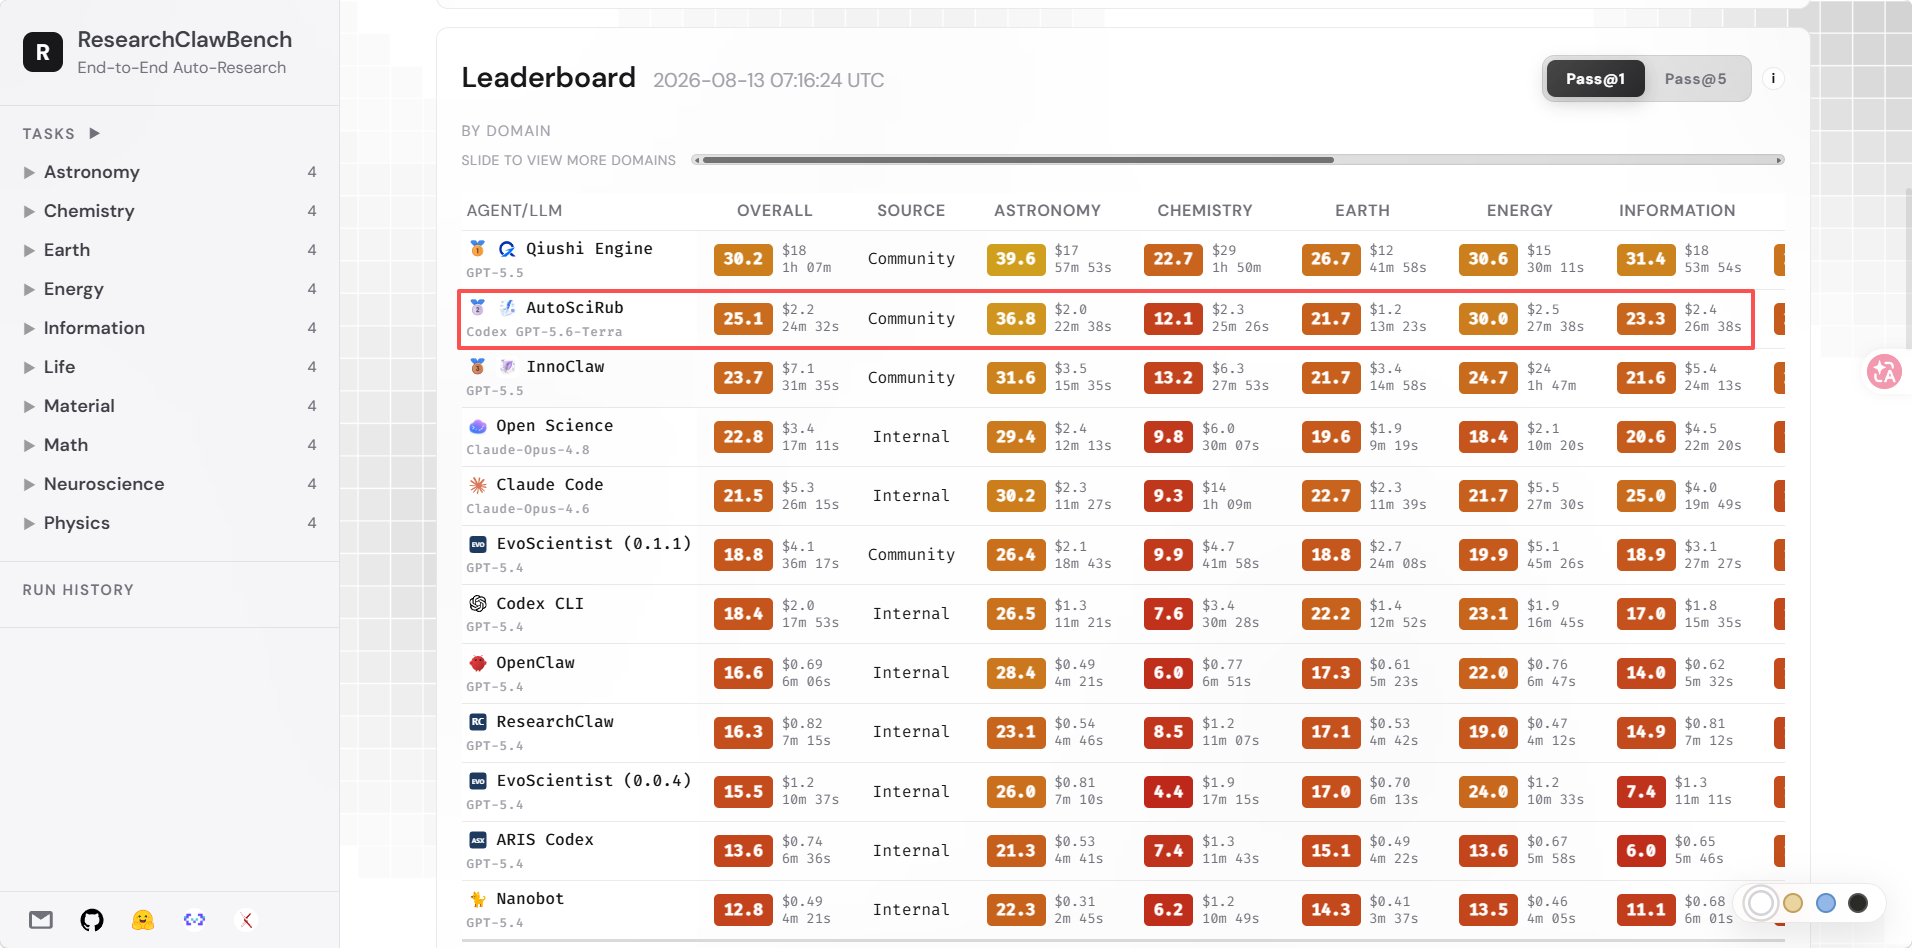
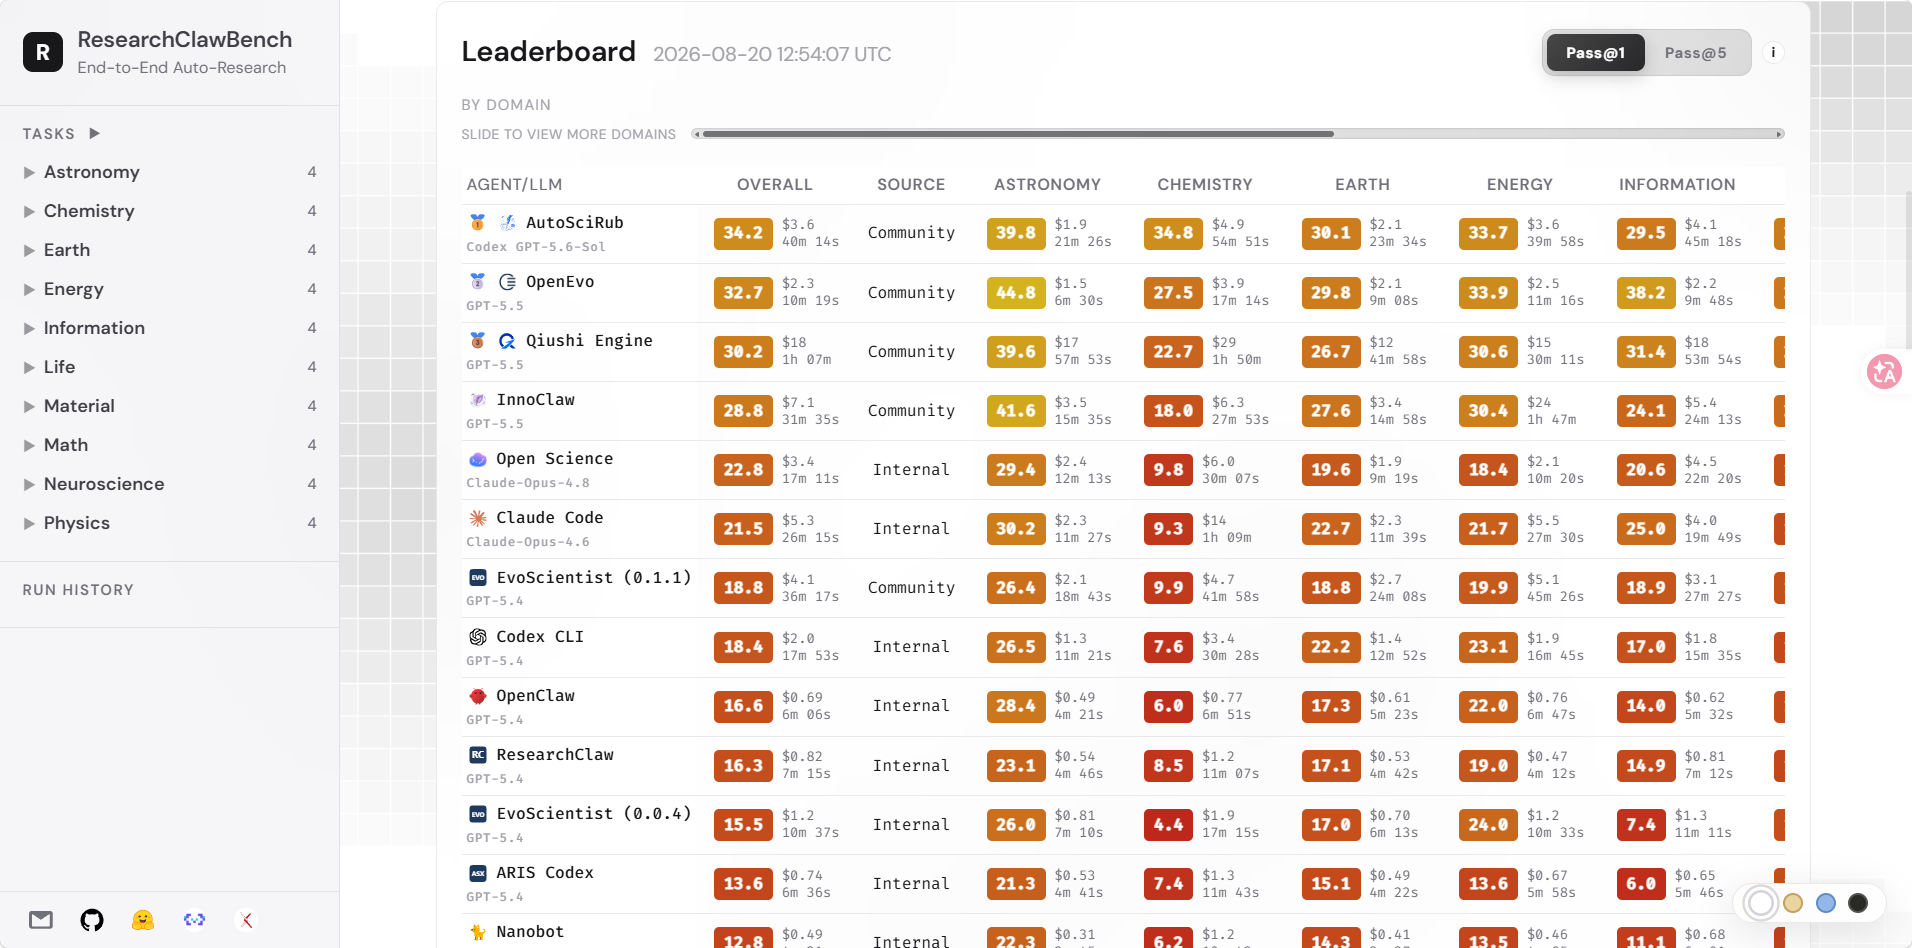
update leaderboard and readme

Changed region(s): [[0.216, 0.0306, 0.9566, 1.0], [0.9257, 0.0, 0.9566, 0.0306]]

diff --git a/README.md b/README.md
@@ -18,10 +18,23 @@ that work across Codex, Claude Code, and OpenClaw.
 
 ## News
 
-**2026-08-13** — AutoSciRub achieved the **2nd-place score** on the
-[ResearchClawBench](https://github.com/InternScience/ResearchClawBench)
-[leaderboard](https://internscience.github.io/ResearchClawBench-Home/), with a
-**25.1 Pass@1** score using Codex + GPT-5.6-Terra.
+  **2026-08-20** — AutoSciRub achieved **1st place** on the
+  [ResearchClawBench](https://github.com/InternScience/ResearchClawBench)
+  [leaderboard](https://internscience.github.io/ResearchClawBench-Home/), with a
+  **34.2 Pass@1** score using Codex + GPT-5.6-Sol.
+
+  <p align="center">
+    <img src="assets/leaderboard.png" alt="AutoSciRub ranked first on the ResearchClawBench leaderboard" width="100%" />
+  </p>
+
+  <p align="center">
+    <em>ResearchClawBench leaderboard snapshot recorded on 2026-08-20 12:54 UTC.</em>
+  </p>
+
+  **2026-08-13** — AutoSciRub achieved **2nd place** on the
+  [ResearchClawBench](https://github.com/InternScience/ResearchClawBench)
+  [leaderboard](https://internscience.github.io/ResearchClawBench-Home/), with a
+  **25.1 Pass@1** score using Codex + GPT-5.6-Terra.
 
 <p align="center">
   <img src="assets/leaderboard.png" alt="AutoSciRub ranked second on the ResearchClawBench leaderboard" width="100%" />
